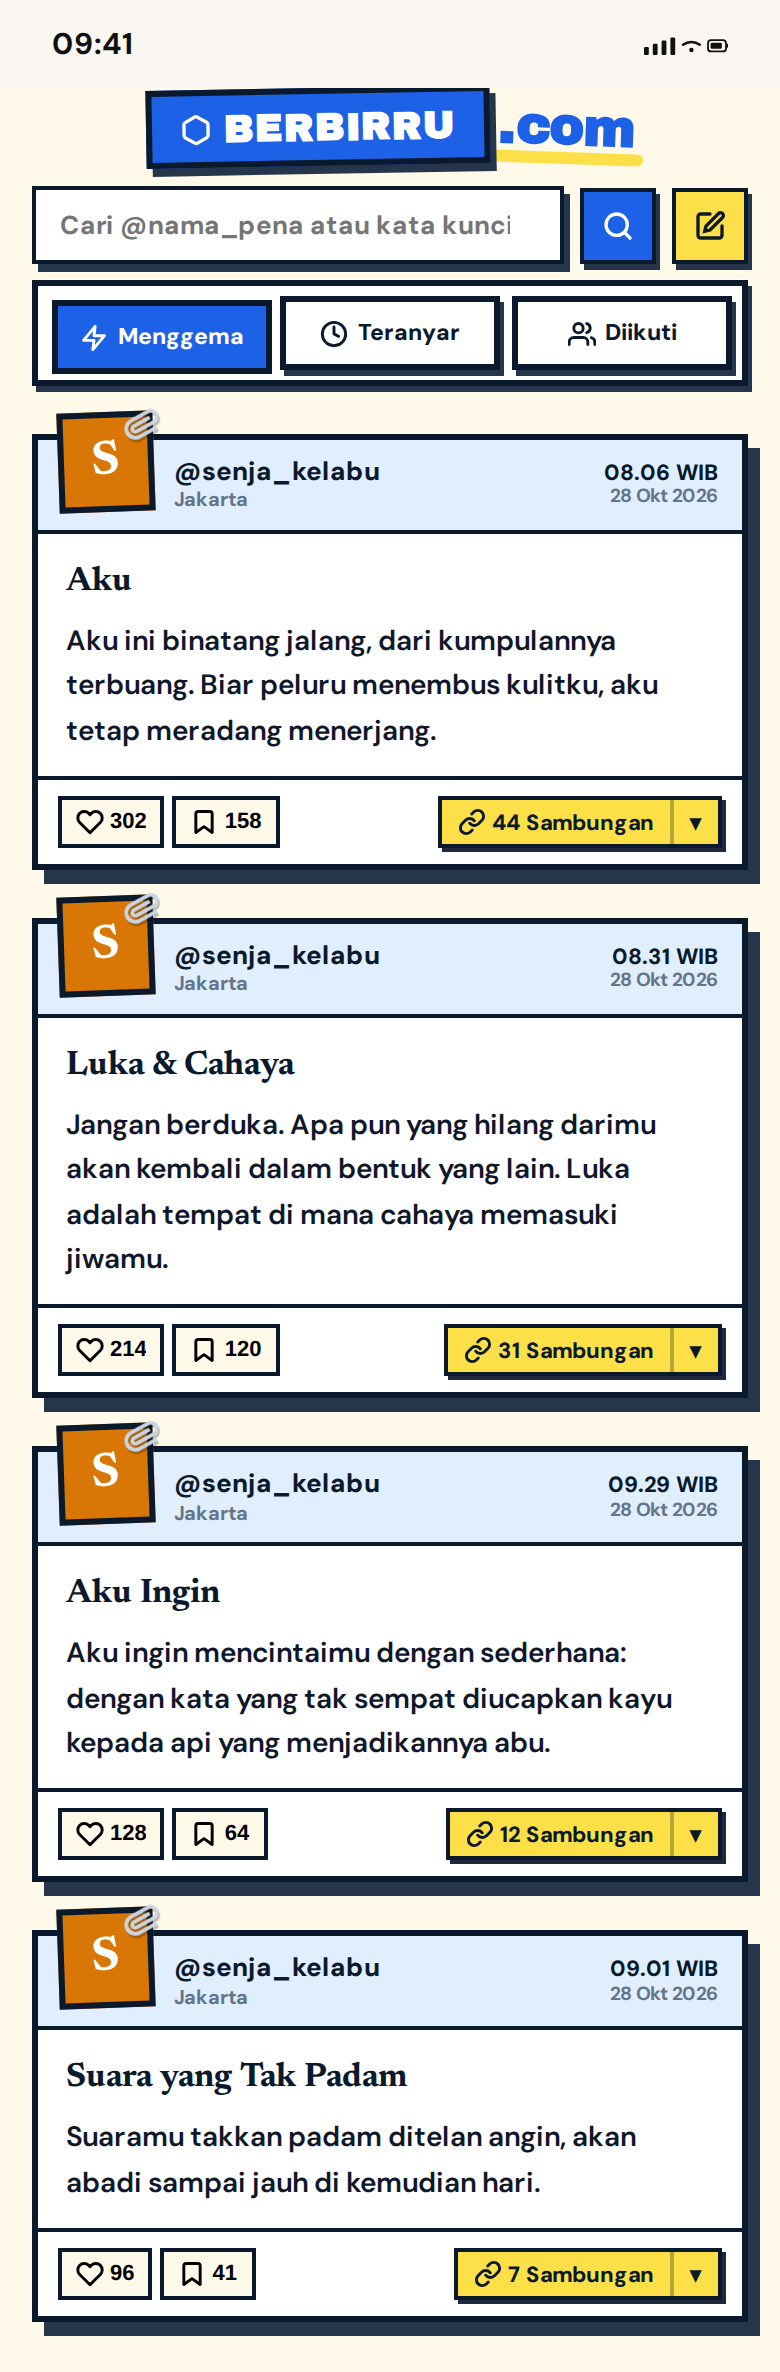
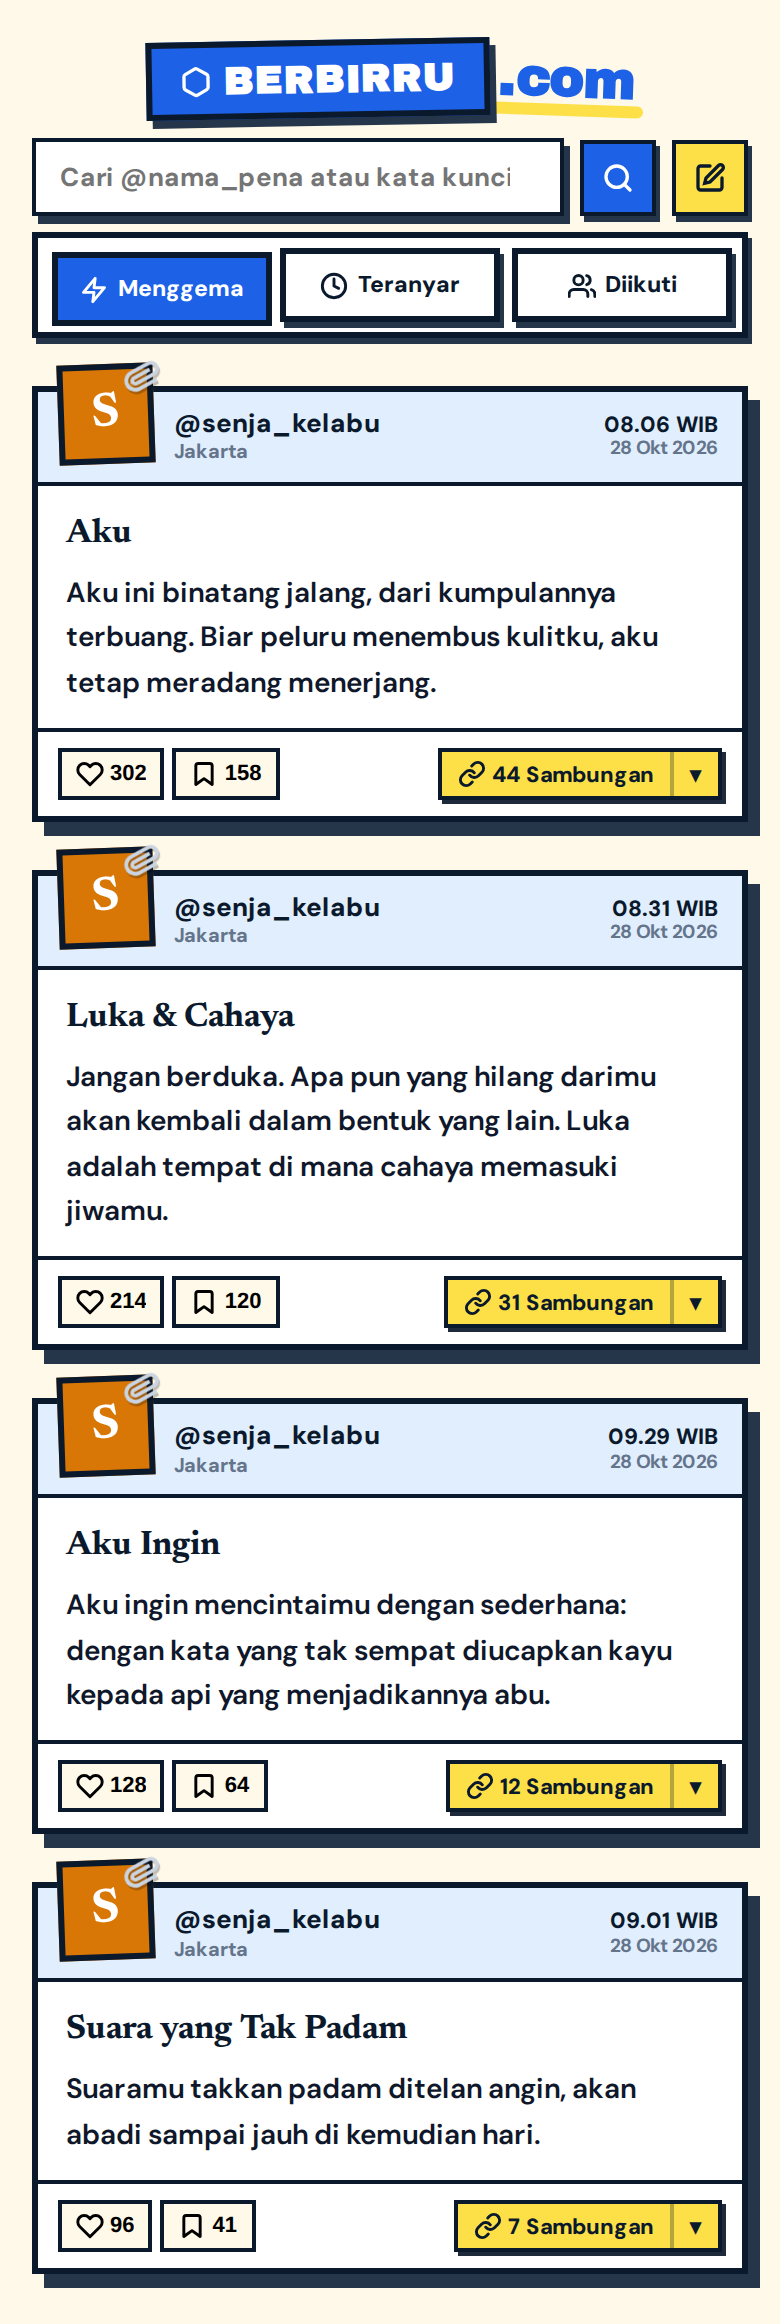
feat(hero): status bar iPhone sticky + jam ikut zona waktu pengunjung

diff --git a/src/web/landing.ts b/src/web/landing.ts
@@ -2,7 +2,10 @@ import { WARKAH_CARD_CSS, WARKAH_EMPTY, renderWarkahCard } from './warkahCard';
 // Landing BERBIRRU — komposisi mengikuti template clone depobudget.com
 // (hero kobalt bergrid, marquee lime, kartu tebal berwarna, galeri ungu,
 // grid teal, FAQ merah, marquee kuning, CTA kobalt, footer hitam).
-export function renderLandingPage(user: any = null, warkah: any[] = []): string {
+export function renderLandingPage(user: any = null, warkah: any[] = [], tz: string = 'Asia/Jakarta'): string {
+  // jam status bar iPhone mengikuti zona waktu pengunjung (dari IP, via request.cf.timezone)
+  let jam = '09:41';
+  try { jam = new Intl.DateTimeFormat('id-ID', { hour: '2-digit', minute: '2-digit', hour12: false, timeZone: tz }).format(new Date()); } catch {}
   const masuk = user ? `/u/${user.pen_name}` : '/login';
   const labelMasuk = user ? `@${user.pen_name}` : 'Masuk';
   const ctaHref = user ? '/feed' : '/login';
@@ -147,6 +150,8 @@ ${WARKAH_CARD_CSS}
   .screen{height:100%;border-radius:1.6rem;overflow-y:auto;overflow-x:hidden;background:var(--page);-webkit-overflow-scrolling:touch;overscroll-behavior:contain;scrollbar-width:none}
   .screen::-webkit-scrollbar{display:none}
   .screen img{width:100%;height:auto;display:block}
+  .appbar{position:sticky;top:0;display:flex;align-items:center;justify-content:space-between;height:30px;padding:0 14px;background:#FAF7F2;font:700 12px var(--sans);color:#111;z-index:4}
+  .appbar svg{width:38px;height:10px;display:block}
   .appnav{position:sticky;bottom:0;display:grid;grid-template-columns:repeat(5,1fr);background:#fff;border-top:2px solid #0B192C;padding:6px 4px 8px;z-index:3}
   .appnav span{display:flex;flex-direction:column;align-items:center;gap:2px;font:800 8px var(--mono);color:#6A788D;line-height:1}
   .appnav svg{width:16px;height:16px;stroke:currentColor;fill:none;stroke-width:2;stroke-linecap:round;stroke-linejoin:round}
@@ -327,7 +332,9 @@ ${WARKAH_CARD_CSS}
             </div>
             <div class="phone" aria-label="Tampilan aplikasi Berbirru">
               <div class="notch" aria-hidden="true"></div>
-              <div class="screen"><img src="/app-preview.png" alt="Linimasa warkah di aplikasi Berbirru" width="390" height="844" loading="lazy">
+              <div class="screen"><div class="appbar" aria-hidden="true"><time data-tz="${tz}">${jam}</time>
+                  <svg viewBox="0 0 42 10"><rect x="0" y="6" width="2.4" height="4" rx=".6" fill="#111"/><rect x="4.4" y="4.4" width="2.4" height="5.6" rx=".6" fill="#111"/><rect x="8.8" y="2.8" width="2.4" height="7.2" rx=".6" fill="#111"/><rect x="13.2" y="1.2" width="2.4" height="8.8" rx=".6" fill="#111"/><path d="M19.5 4.9a7 7 0 0 1 8.4 0" stroke="#111" stroke-width="1.2" fill="none" stroke-linecap="round"/><circle cx="23.7" cy="7.5" r="1.1" fill="#111"/><rect x="32" y="2.6" width="9" height="5.6" rx="1.5" stroke="#111" stroke-width=".9" fill="none"/><rect x="33.3" y="3.9" width="5.6" height="3" rx=".7" fill="#111"/><rect x="41.4" y="4.4" width="1.2" height="2" rx=".5" fill="#111"/></svg></div>
+                <img src="/app-preview.png" alt="Linimasa warkah di aplikasi Berbirru" width="390" height="844" loading="lazy">
                 <div class="appnav" aria-hidden="true">
                 <span class="on"><svg viewBox="0 0 24 24"><path d="M3 10.5 12 3l9 7.5"/><path d="M5 9.5V21h14V9.5"/></svg>Beranda</span>
                 <span><svg viewBox="0 0 24 24"><path d="M6 7h12l1 13H5L6 7Z"/><path d="M9 7a3 3 0 0 1 6 0"/></svg>Pasar</span>
@@ -568,6 +575,8 @@ ${WARKAH_CARD_CSS}
 <script>
   (function(){
     // typing headline: main sekali, lalu ulang tiap 9 detik (kecuali reduced-motion)
+    var jamEl=document.querySelector('.appbar time');
+    if(jamEl){var tz=jamEl.getAttribute('data-tz')||'Asia/Jakarta';var tick=function(){try{jamEl.textContent=new Intl.DateTimeFormat('id-ID',{hour:'2-digit',minute:'2-digit',hour12:false,timeZone:tz}).format(new Date())}catch(e){}};tick();setInterval(tick,20000);}
     var h1=document.querySelector('.hero h1');
     if(h1 && !matchMedia('(prefers-reduced-motion: reduce)').matches){
       var replay=function(){h1.classList.remove('typing');void h1.offsetWidth;h1.classList.add('typing')};

diff --git a/src/index.ts b/src/index.ts
@@ -279,7 +279,8 @@ app.get('/', async (c) => {
   const user = await getAuthUser(c);
   // HTML landing jangan di-cache: perubahan UI harus langsung terlihat.
   c.header('Cache-Control', 'no-store, must-revalidate');
-  return c.html(renderLandingPage(user));
+  const tz = (c.req.raw as any).cf?.timezone || 'Asia/Jakarta';
+  return c.html(renderLandingPage(user, [], tz));
 });
 
 // 404 jangan di-cache edge: rute baru bisa "hilang" beberapa jam karena 404 lama
